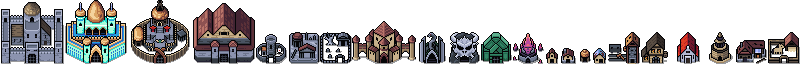
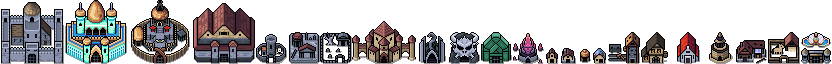
Town dressing: fountains, brazier lamps, statues, gardens
- New props from the packs: a winged fountain (HAS2020 1x2), brazier
  lamp (Dungeon set -- lit with its own pool of light after dark),
  statue, signpost and market kiosk (HAS2020 1x1), daisy beds and
  trimmed bushes (Overworld grass decor cells)
- The capital plaza gets the fountain, a statue by the shrine, a kiosk
  at the market and braziers all down the king's way; walled cities get
  a fountain, statue and gate braziers; village greens get a signpost,
  two lamps and daisies
- Every shopfront lawn is kept now: flowers by the door, bushes behind
- Editor palette carries all the new dressing; smoke asserts the towns
  keep their fountain, lamps (10+), statue, signpost, kiosk and gardens

diff --git a/server/world.js b/server/world.js
@@ -208,6 +208,11 @@ function generate(seed = 1337) {
     if (name === 'smithy' || name === 'shop') {
       props.push({ x: ix + 2, y: iy - 1, name: 'prop.chest' });
     }
+    // every lawn is kept: daisy beds by the door, trimmed bushes behind
+    props.push({ x: bx - 2, y: by + 1, name: 'prop.flowers' + ((bx + by) % 3) });
+    props.push({ x: bx + 2, y: by + 1, name: 'prop.flowers' + ((bx * 3 + by) % 3) });
+    props.push({ x: bx - 2, y: by - 2, name: 'prop.bush' + (bx % 2) });
+    props.push({ x: bx + 2, y: by - 2, name: 'prop.bush' + ((bx + 1) % 2) });
     return { x: ix, y: iy };
   };
 
@@ -304,6 +309,15 @@ function generate(seed = 1337) {
       set(CX + 20, y, TILE.WALL);
     }
   }
+  // the plaza dressed for a capital: a winged fountain, braziers down the
+  // king's way and at the market, a statue by the shrine, a market kiosk
+  props.push({ x: CX, y: CY - 2, name: 'prop.fountain' });
+  props.push({ x: CX + 2, y: CY - 8, name: 'prop.statue' });
+  props.push({ x: CX - 5, y: CY + 3, name: 'prop.kiosk' });
+  for (const [lx, ly] of [[CX - 2, CY + 5], [CX + 2, CY + 5], [CX - 2, CY + 10], [CX + 2, CY + 10],
+                          [CX - 2, CY + 15], [CX + 2, CY + 15], [CX - 10, CY - 2], [CX + 10, CY - 2]]) {
+    props.push({ x: lx, y: ly, name: 'prop.lamp' });
+  }
   // the outer ring: cottages, stalls and townsfolk between plaza and wall
   props.push({ x: CX - 18, y: CY + 7, name: 'prop.cottage0' });
   props.push({ x: CX + 18, y: CY - 6, name: 'prop.cottage1' });
@@ -350,6 +364,12 @@ function generate(seed = 1337) {
     set(v.x, v.y + 4, TILE.SHRINE);
     props.push({ x: v.x + 1, y: v.y + 4, name: 'prop.table' }); // market stall
     props.push({ x: v.x + 2, y: v.y + 5, name: 'prop.stool' });
+    // village green dressing: a signpost, lamps by the shrine, daisies
+    props.push({ x: v.x - 1, y: v.y + 6, name: 'prop.signpost' });
+    props.push({ x: v.x - 2, y: v.y + 3, name: 'prop.lamp' });
+    props.push({ x: v.x + 3, y: v.y + 3, name: 'prop.lamp' });
+    props.push({ x: v.x - 3, y: v.y + 5, name: 'prop.flowers' + (v.x % 3) });
+    props.push({ x: v.x + 4, y: v.y + 6, name: 'prop.flowers' + ((v.x + 1) % 3) });
     spawners.push({ kind: 'villager', count: 3, x: v.x, y: v.y, r: 6 });
     // Livestock graze around every village.
     for (let k = 0; k < 2; k++) {
@@ -414,6 +434,14 @@ function generate(seed = 1337) {
     shopfront(cx + 6, cy - 6, 'inn');
     const cityHealer = shopfront(cx - 6, cy + 6, 'healer');
     set(cx, cy - 2, TILE.SHRINE);
+    // civic pride: a fountain, a statue, braziers at the gates
+    props.push({ x: cx, y: cy + 1, name: 'prop.fountain' });
+    props.push({ x: cx + 2, y: cy - 2, name: 'prop.statue' });
+    for (const [lx, ly] of [[cx - 2, cy + 11], [cx + 2, cy + 11],
+                            [cx - 2, cy - 11], [cx + 2, cy - 11],
+                            [cx - 13, cy], [cx + 13, cy]]) {
+      props.push({ x: lx, y: ly, name: 'prop.lamp' });
+    }
     props.push({ x: cx + 5, y: cy + 3, name: 'prop.well' });
     props.push({ x: cx - 4, y: cy + 1, name: 'prop.table' });
     props.push({ x: cx - 3, y: cy + 2, name: 'prop.stool' });

diff --git a/client/game.js b/client/game.js
@@ -1318,10 +1318,15 @@ function drawNight(cam, time) {
     punch(s.x, s.y - 20, 150, 0.85); // the traveller's lantern
   }
   for (const pr of state.props) {
-    if (pr.name !== 'fx.campfire') continue;
+    if (pr.name !== 'fx.campfire' && pr.name !== 'prop.lamp') continue;
     const s = worldToScreen(pr.x + 0.5, pr.y + 0.5, cam);
     if (s.x < -200 || s.x > canvas.width + 200 || s.y < -200 || s.y > canvas.height + 200) continue;
-    punch(s.x, s.y - 6, 120 + Math.sin(time / 130 + pr.x) * 8, 0.95);
+    if (pr.name === 'prop.lamp') {
+      // street braziers: a smaller, steadier pool of light than a campfire
+      punch(s.x, s.y - 14, 95 + Math.sin(time / 210 + pr.x * 2) * 5, 0.9);
+    } else {
+      punch(s.x, s.y - 6, 120 + Math.sin(time / 130 + pr.x) * 8, 0.95);
+    }
   }
   for (const t of state.torches || []) {
     const s = worldToScreen(t.x, t.y, cam);

diff --git a/tools/smoke-test.js b/tools/smoke-test.js
@@ -750,6 +750,13 @@ for (const k of ['smithy', 'inn', 'healer', 'magetower', 'shop', 'lodge']) {
     `somewhere a ${k} stands as one drawn piece`);
 }
 
+// -- and the towns are dressed: fountains, lamps, gardens ----------------------------
+for (const k of ['fountain', 'lamp', 'statue', 'signpost', 'kiosk', 'flowers0', 'bush0']) {
+  assert(game.map.props.some((pr) => pr.name === 'prop.' + k), `the towns keep their ${k}`);
+}
+assert(game.map.props.filter((pr) => pr.name === 'prop.lamp').length >= 10,
+  'braziers light more than one street');
+
 // -- and every house opens its door: doorstep portals into carved interiors ----------
 const houseDoor = game.map.secrets.find((s) => s.type === 'portal' && s.ty > 44 && s.ty < 64);
 assert(houseDoor, 'a doorstep leads to a room beneath the world');

diff --git a/client/editor.js b/client/editor.js
@@ -21,6 +21,8 @@ const PROPS = ['prop.well', 'prop.table', 'prop.stool', 'fx.campfire',
   'prop.snakelair', 'prop.daemoncave', 'prop.dwarffortress', 'prop.bloodtemple',
   'prop.citycastle', 'prop.citytower', 'prop.citystronghold', 'prop.cityrampart',
   'prop.smithy', 'prop.inn', 'prop.healer', 'prop.magetower', 'prop.shop', 'prop.lodge',
+  'prop.fountain', 'prop.lamp', 'prop.statue', 'prop.signpost', 'prop.kiosk',
+  'prop.flowers0', 'prop.flowers1', 'prop.flowers2', 'prop.bush0', 'prop.bush1',
   'prop.stairsup'];
 
 const cv = document.getElementById('map');

diff --git a/tools/build-assets.py b/tools/build-assets.py
@@ -467,6 +467,7 @@ HAS_SHEETS = {
     'TREES': 'HAS Overworld 2.1/Universal/Universal-Trees-And-Mountains.png',
     'BLDG': 'HAS Overworld 2.1/Universal/Universal-Buildings-and-walls.png',
     'DNG': 'HAS Dungeon (v.1.01)/Dungeon/Dungeon-Tileset.png',
+    'B1X1': 'HAS2020 (alpha 1)/Buildings/1x1/1x1BuildingsSpriteSheet.png',
 }
 
 # Ground variants (each biome LandTileset shares one template; the textured
@@ -506,6 +507,12 @@ HAS_OBJECTS = {
     'stone0': ('GB', 4, 0), 'twig': ('GB', 8, 1),
     'snowdecor0': ('IB', 2, 0), 'snowdecor1': ('IB', 4, 0),
     'sanddecor0': ('SB', 2, 0), 'sanddecor1': ('SB', 4, 0),
+    # town dressing: daisy beds, trimmed bushes, a brazier lamp that the
+    # client lights after dark, and small monuments from HAS2020
+    'flowers0': ('GB', 2, 0), 'flowers1': ('GB', 3, 0), 'flowers2': ('GB', 2, 1),
+    'bush0': ('GB', 7, 0), 'bush1': ('GB', 6, 1),
+    'lamp': ('DNG', 13, 6),
+    'statue': ('B1X1', 5, 2), 'signpost': ('B1X1', 1, 2), 'kiosk': ('B1X1', 5, 0),
     'swampdecor0': ('MB', 2, 0), 'mushroom': ('TREES', 1, 28),
     'table':  ('BLDG', 2, 4), 'stool': ('BLDG', 1, 4),
     'well':   ('DNG', 15, 1),  # a stout barrel-well until a better match
@@ -632,6 +639,10 @@ def build_topdown_heroic(frames, images_out):
                 'magetower': (0, 6), 'shop': (3, 2), 'lodge': (4, 6)}
     for k, (cx, cy) in TOWN2020.items():
         imgs[k] = b2020.crop((cx * 32, cy * 32, cx * 32 + 32, cy * 32 + 32))
+    # the winged fountain from the 1x2 set (two cells wide), a plaza ornament
+    f12 = Image.open(os.path.join(
+        HEROIC, 'HAS2020 (alpha 1)', 'Buildings', '1x2', '1x2BuildingsSpriteSheet.png')).convert('RGBA')
+    imgs['fountain'] = f12.crop((4 * 16, 0, 6 * 16, 32))
     sw = sum(im.width for im in imgs.values())
     sh = max(im.height for im in imgs.values())
     sheet = Image.new('RGBA', (sw, sh), (0, 0, 0, 0))
@@ -642,7 +653,7 @@ def build_topdown_heroic(frames, images_out):
         # the crown's own castle is grandest, without swallowing the skyline;
         # town shops bake at 5x so the sprite fully covers its 3-tile footprint
         z = 6 if k == 'citycastle' else 5 if k.startswith('city') else \
-            3 if k.startswith('cottage') else 5 if k in TOWN2020 else 4
+            3 if k.startswith('cottage') or k == 'fountain' else 5 if k in TOWN2020 else 4
         frames[f'td.o.{k}'] = {'img': 'structures', 'x': x, 'y': sh - im.height,
                                'w': im.width, 'h': im.height,
                                'ax': im.width // 2, 'ay': im.height - 2, 'scale': z}